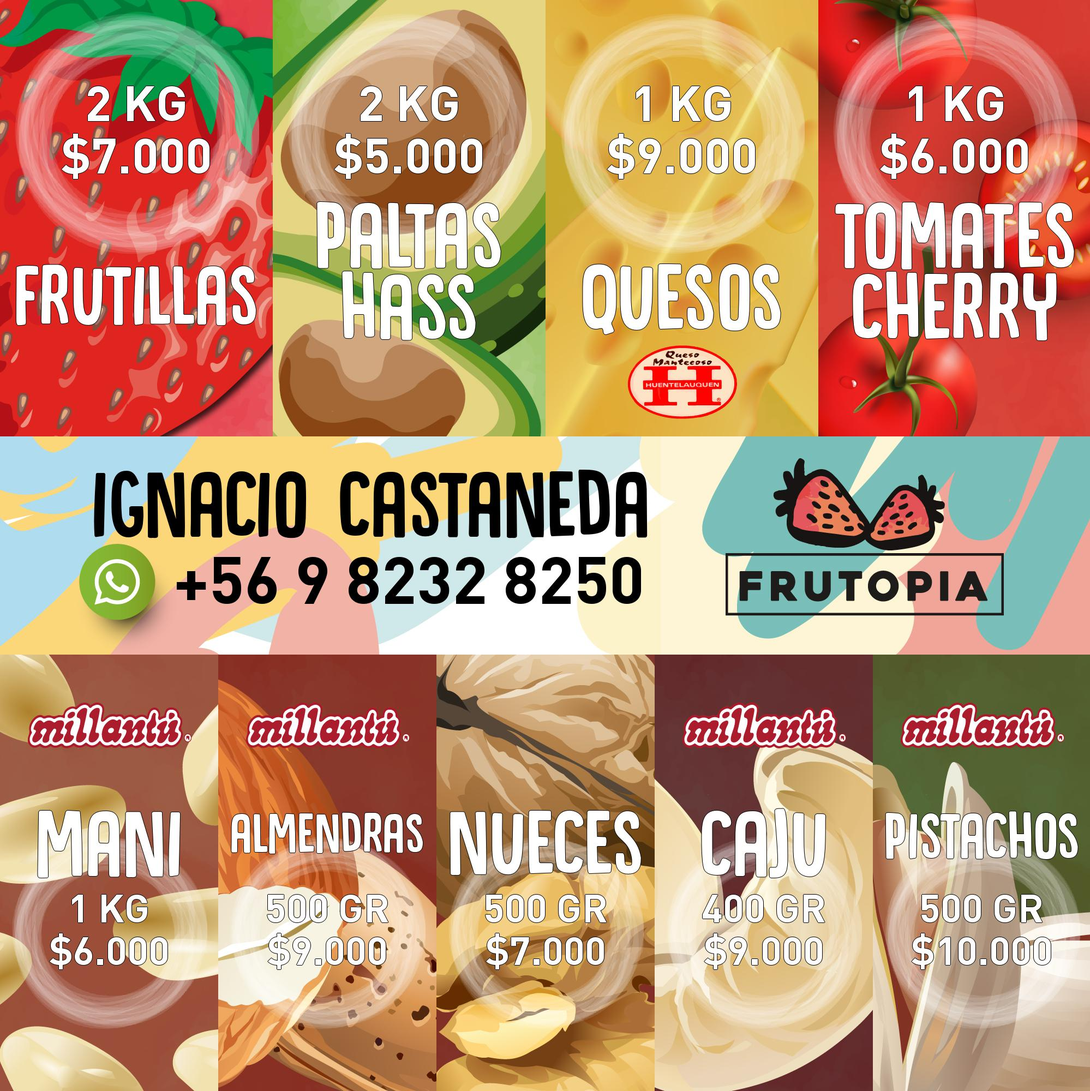
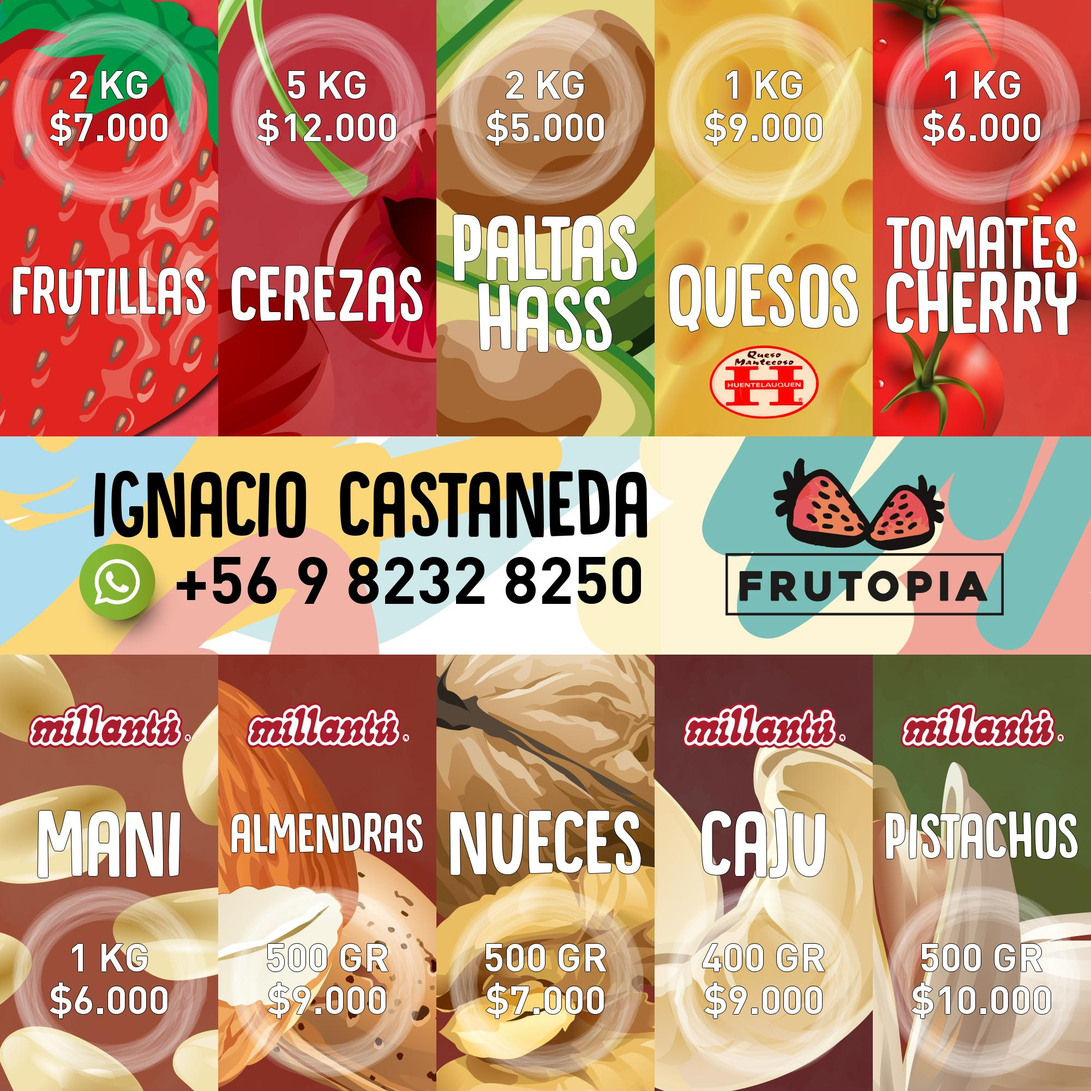
Frutillas cerezas + cerezas en difusion multiple

diff --git a/main.py b/main.py
@@ -6,7 +6,7 @@ from flask import Flask, render_template, redirect, url_for, request, \
      send_file, send_from_directory
 
 from grafica.datos import agregar_datos, agregar_datos_multiples, \
-     agregar_datos_vendedores
+     agregar_datos_vendedores, agregar_datos_frutillas_cerezas
 from utilidades import mayus, obtener_productos, crear_template_multiple
 from grafica.difusion_multiple import crear_difusion_multiple
 from bot.message_handler import MessageHandler
@@ -68,17 +68,30 @@ def difusion_vendedores():
             error = "Telefono no válido."
         else:
             telefono = "+569" + telefono.strip().replace(" ", "")[-8:]
-            return redirect(url_for(
-                "difusion_datos_vendedores", nombre=nombre, apellido=apellido,
-                numero=telefono))
+        nombre = mayus(nombre)
+        apellido = mayus(apellido)
+        numero = telefono
+        file = agregar_datos_vendedores(nombre, apellido, numero)
+        return send_file(file, mimetype='image/gif')
     return render_template('difusion_datos_vendedores.html', error=error)
 
-@app.route("/difusion_vendedores/<nombre>-<apellido>-<numero>")
-def difusion_datos_vendedores(nombre, apellido, numero):
-    nombre = mayus(nombre)
-    apellido = mayus(apellido)
-    file = agregar_datos_vendedores(nombre, apellido, numero)
-    return send_file(file, mimetype='image/gif')
+@app.route("/frutillas_cerezas", methods=['GET', 'POST'])
+def difusion_fru_cere():
+    error = None
+    if request.method == 'POST':
+        nombre = request.form["nombre"].lower().strip()
+        apellido = request.form["apellido"].lower().strip()
+        telefono = request.form["telefono"]
+        if len(telefono) < 8:
+            error = "Telefono no válido."
+        else:
+            telefono = "+569" + telefono.strip().replace(" ", "")[-8:]
+        nombre = mayus(nombre)
+        apellido = mayus(apellido)
+        numero = telefono
+        file = agregar_datos_frutillas_cerezas(nombre, apellido, numero)
+        return send_file(file, mimetype='image/gif')
+    return render_template('difusion_datos_vendedores.html', error=error)
 
 @app.route("/difusion_multiple", methods=['GET', 'POST'])
 def difusion_multiple():
@@ -93,10 +106,6 @@ def difusion_multiple():
             "apellido": apellido,
             "telefono": telefono
             }
-##        for producto in productos:
-##            precio = request.form[producto["variable"]]
-##            if precio != "":
-##                producto["precio"] = precio
         if len(telefono) < 8:
             error = "Telefono no válido."
         else:
@@ -104,15 +113,6 @@ def difusion_multiple():
             return send_file(file, mimetype='image/gif')
     crear_template_multiple(productos)
     return render_template('difusion_multiple.html', error=error)
-
-@app.route(
-    "/difusion_multiple/<nombre>-<apellido>-<numero>-<frutillas>-"+
-    "<uvas>-<paltas>-<limones>")
-def difusion_datos_multiples(nombre, apellido, numero,
-                   frutillas, uvas, paltas, limones):
-    file = agregar_datos_multiples(nombre, apellido, numero,
-                                   frutillas, uvas, paltas, limones)
-    return send_file(file, mimetype='image/gif')
 
 @app.route("/excel_vendedor")
 def excel_vendedor():

diff --git a/grafica/datos.py b/grafica/datos.py
@@ -81,19 +81,6 @@ def agregar_datos_multiples(nombre, apellido, numero,
     return file
 
 def agregar_datos_vendedores(nombre, apellido, numero):
-##    numero = str(numero)[-8:]
-##    numero = "+56 9 {} {}".format(numero[:4],numero[4:])
-##    img = Image.open("grafica/Fotos/difusion_vendedores.jpg")
-##    draw = ImageDraw.Draw(img)
-##    font = ImageFont.truetype("grafica/Fuentes/DK Canoodle.otf", 300)
-##    y_n = 2300
-##    texto_centrado(draw, font, nombre, 3000, y_n)        # Nombre
-##    texto_centrado(draw, font, apellido, 3000, y_n+250)  # Apellido
-##    font = ImageFont.truetype("grafica/Fuentes/BebasNeue.otf", 270)
-##    x = 2350
-##    draw.text((x, y_n+545), numero, (0, 0, 0), font) # Numero
-##    draw = ImageDraw.Draw(img)
-##    font = ImageFont.truetype("grafica/Fuentes/BebasNeue.otf", 400)
     numero = str(numero)[-8:]
     numero = "+56 9 {} {}".format(numero[:4],numero[4:])
     img = Image.open("grafica/Fotos/difusion_vendedores.jpg")
@@ -107,6 +94,23 @@ def agregar_datos_vendedores(nombre, apellido, numero):
     draw.text((x, y_n-100), numero, (0, 0, 0), font) # Numero
     draw = ImageDraw.Draw(img)
     file = "grafica/Vendedores/Vendedores {} {}.jpg".format(nombre, apellido)
+    img.save(file)
+    return file
+
+def agregar_datos_frutillas_cerezas(nombre, apellido, numero):
+    numero = str(numero)[-8:]
+    numero = "+56 9 {} {}".format(numero[:4],numero[4:])
+    img = Image.open("grafica/Fotos/frutillas_cerezas.jpg")
+    draw = ImageDraw.Draw(img)
+    font = ImageFont.truetype("grafica/Fuentes/DK Canoodle.otf", 100)
+    x = 170
+    y_n = 1060
+    nombre = nombre + " " + apellido
+    texto_centrado(draw, font, nombre, x+300, y_n+30, (255, 255, 255)) # Nombre
+    font = ImageFont.truetype("grafica/Fuentes/BebasNeue.otf", 100)
+    draw.text((x, y_n+90), numero, (255, 255, 255), font) # Numero
+    draw = ImageDraw.Draw(img)
+    file = "grafica/Vendedores/Fru_Cere {} {}.jpg".format(nombre, apellido)
     img.save(file)
     return file
 
